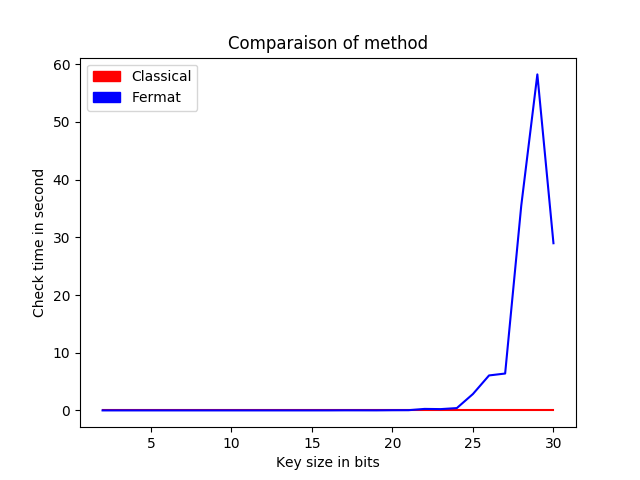
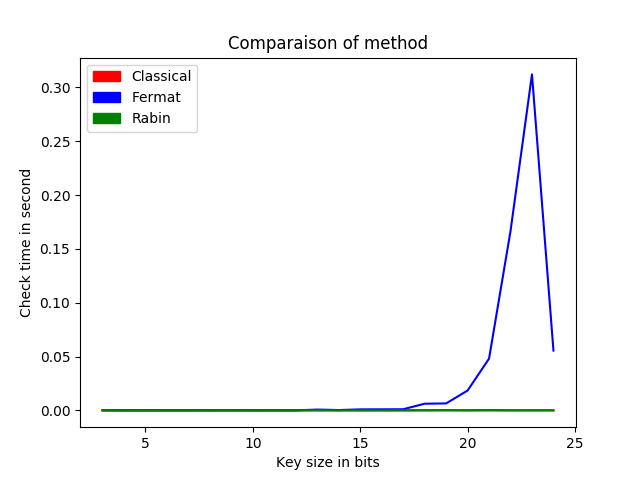
Testing some algorithm

diff --git a/prime_test.py b/prime_test.py
@@ -1,0 +1,112 @@
+#!/usr/bin/env python3
+from __future__ import print_function
+import sys
+
+# Prime number test
+from prime import *
+
+from multiprocessing import Queue, Process
+
+
+def processClassical(start_length, end_length, q, prog):
+    time_values = []
+
+    isPrime = False
+    print("Starting classical")
+    for taille in range(start_length, end_length):
+        prog.put(taille)
+        start = time.time()
+        isPrime = False
+        while isPrime is False and not taille > 8:
+            n = generatePrime(taille)
+            isPrime = checkPrime(n)
+        totalTime = time.time() - start
+        time_values.append(totalTime if totalTime < 10 else 200)
+    q.put(time_values)
+    print("Classical ended")
+
+
+def processFermat(start_length, end_length, q, prog):
+    time_values_fermat = []
+
+    isPrime = False
+    print("Starting Fermat")
+    for taille in range(start_length, end_length):
+        prog.put(taille)
+        start = time.time()
+        isPrime = False
+        while isPrime is False:
+            n = generatePrime(taille)
+            isPrime = checkPrimeFermat(n)
+        totalTime = time.time() - start
+        time_values_fermat.append(totalTime)
+    q.put(time_values_fermat)
+    print("Fermat ended")
+
+
+def processRabinMiller(start_length, end_length, q, prog):
+    time_values_rabin = []
+
+    isPrime = False
+    print("Starting Rabin Miller")
+    for taille in range(start_length, end_length):
+        prog.put(taille)
+        start = time.time()
+        isPrime = False
+        while isPrime is False:
+            n = generatePrime(taille)
+            isPrime = checkRabinMiller(n)
+        totalTime = time.time() - start
+        time_values_rabin.append(totalTime)
+    q.put(time_values_rabin)
+    print("Rabin Miller ended")
+
+
+
+def testPrime():
+    """Testing prime function"""
+    # start and stop in byte
+    start, stop = 3, 25
+
+    key_size = [i for i in range(start, stop)]
+
+    results = [Queue() for _ in range(3)]
+    progress = [Queue() for _ in range(3)]
+
+    pClassical = Process(target=processClassical, args=(start, stop, results[0], progress[0]))
+    pClassical.daemon = True
+
+    pFermat = Process(target=processFermat, args=(start, stop, results[1], progress[1]))
+    pFermat.daemon = True
+
+    pRabin = Process(target=processRabinMiller, args=(start, stop, results[2], progress[2]))
+    pRabin.daemon = True
+
+    pClassical.start()
+    pFermat.start()
+    pRabin.start()
+
+    time.sleep(0.1)
+
+    while (pClassical.is_alive() or pFermat.is_alive() or pRabin.is_alive()):
+        print("Classical : {}/{} | Fermat : {}/{} | Rabin : {}/{}".format(progress[0].get(), stop, progress[1].get(), stop, progress[2].get(), stop), end='\r')
+        sys.stdout.flush()
+        time.sleep(0.1)
+
+    plt.plot(key_size, results[0].get(), 'r', key_size, results[1].get(), 'b', key_size, results[2].get(), 'g')
+
+    classical_patch = mpatches.Patch(color='red', label='Classical')
+    fermat_patch = mpatches.Patch(color='blue', label='Fermat')
+    rabin_patch = mpatches.Patch(color='green', label='Rabin')
+    plt.legend(handles=[classical_patch, fermat_patch, rabin_patch])
+
+    plt.xlabel("Key size in bits")
+    plt.ylabel("Check time in second")
+    plt.title("Comparaison of method")
+    plt.savefig(os.path.join(os.path.dirname(__file__), "speed.png"))
+    plt.show()
+
+if __name__ == "__main__":
+    ret = input("This is going to take a long time, do you want to start the computation ? (y/n): ")
+    if ret == "y":
+        testPrime()

diff --git a/prime.py b/prime.py
@@ -1,12 +1,15 @@
 #!/usr/bin/env python3
 
+# Important modules for rsa key generation
 import random
 from multiprocessing import Process
 import time
 import math
 
+# for file location
 import os
 
+# for plot and data
 import matplotlib.pyplot as plt
 import matplotlib.patches as mpatches
 
@@ -40,58 +43,32 @@ def checkPrimeFermat(number):
         return False
 
 
+def _try_composite(a, d, n, s):
+    x = pow(a, d, n)
+    if x == 1:
+        return True
+    for i in range(s - 1):
+        if x == n - 1:
+            return True
+        x = pow(x, 2, n)
+    return x == n - 1
 
 
-def testPrime():
-    """Testing prime function"""
-
-    start_length = 2
-    end_length = 31
-    maxtime = 0
-
-    key_size= []
-    time_values = []
-
-    isPrime = False
-    print("Starting classical")
-    for taille in range(start_length, end_length):
-        key_size.append(taille)
-        start = time.time()
-        isPrime = False
-        print(taille)
-        while isPrime is False and time.time() - start < maxtime:
-            n = generatePrime(taille)
-            isPrime = checkPrime(n)
-        totalTime = time.time() - start
-        time_values.append(totalTime if totalTime < 10 else 200)
-
-    key_size_fermat = []
-    time_values_fermat = []
-
-    isPrime = False
-    print("Starting Fermat")
-    for taille in range(start_length, end_length):
-        key_size_fermat.append(taille)
-        start = time.time()
-        isPrime = False
-        print(taille)
-        while isPrime is False:
-            n = generatePrime(taille)
-            isPrime = checkPrimeFermat(n)
-        totalTime = time.time() - start
-        time_values_fermat.append(totalTime)
-
-    plt.plot(key_size, time_values, 'r', key_size_fermat, time_values_fermat, 'b')
-
-    classical_patch = mpatches.Patch(color='red', label='Classical')
-    fermat_patch = mpatches.Patch(color='blue', label='Fermat')
-    plt.legend(handles=[classical_patch, fermat_patch])
-
-    plt.xlabel("Key size in bits")
-    plt.ylabel("Check time in second")
-    plt.title("Comparaison of method")
-    plt.savefig(os.path.join(os.path.dirname(__file__), "speed.png"))
-    plt.show()
-
-if __name__ == "__main__":
-    testPrime()
+def checkRabinMiller(number, k=18):
+    if number in [1, 2, 3]:
+        return True
+    if not number & 1:
+        return False
+    
+    d, s = number - 1, 0
+    while d % 2 == 0:
+        # dividing by two using bitshift
+        d >>= 1
+        s += 1
+    
+    for i in range(k):
+        a = random.randint(2, number - 2)
+        if not _try_composite(a, d, number, s):
+            return False
+    
+    return True
